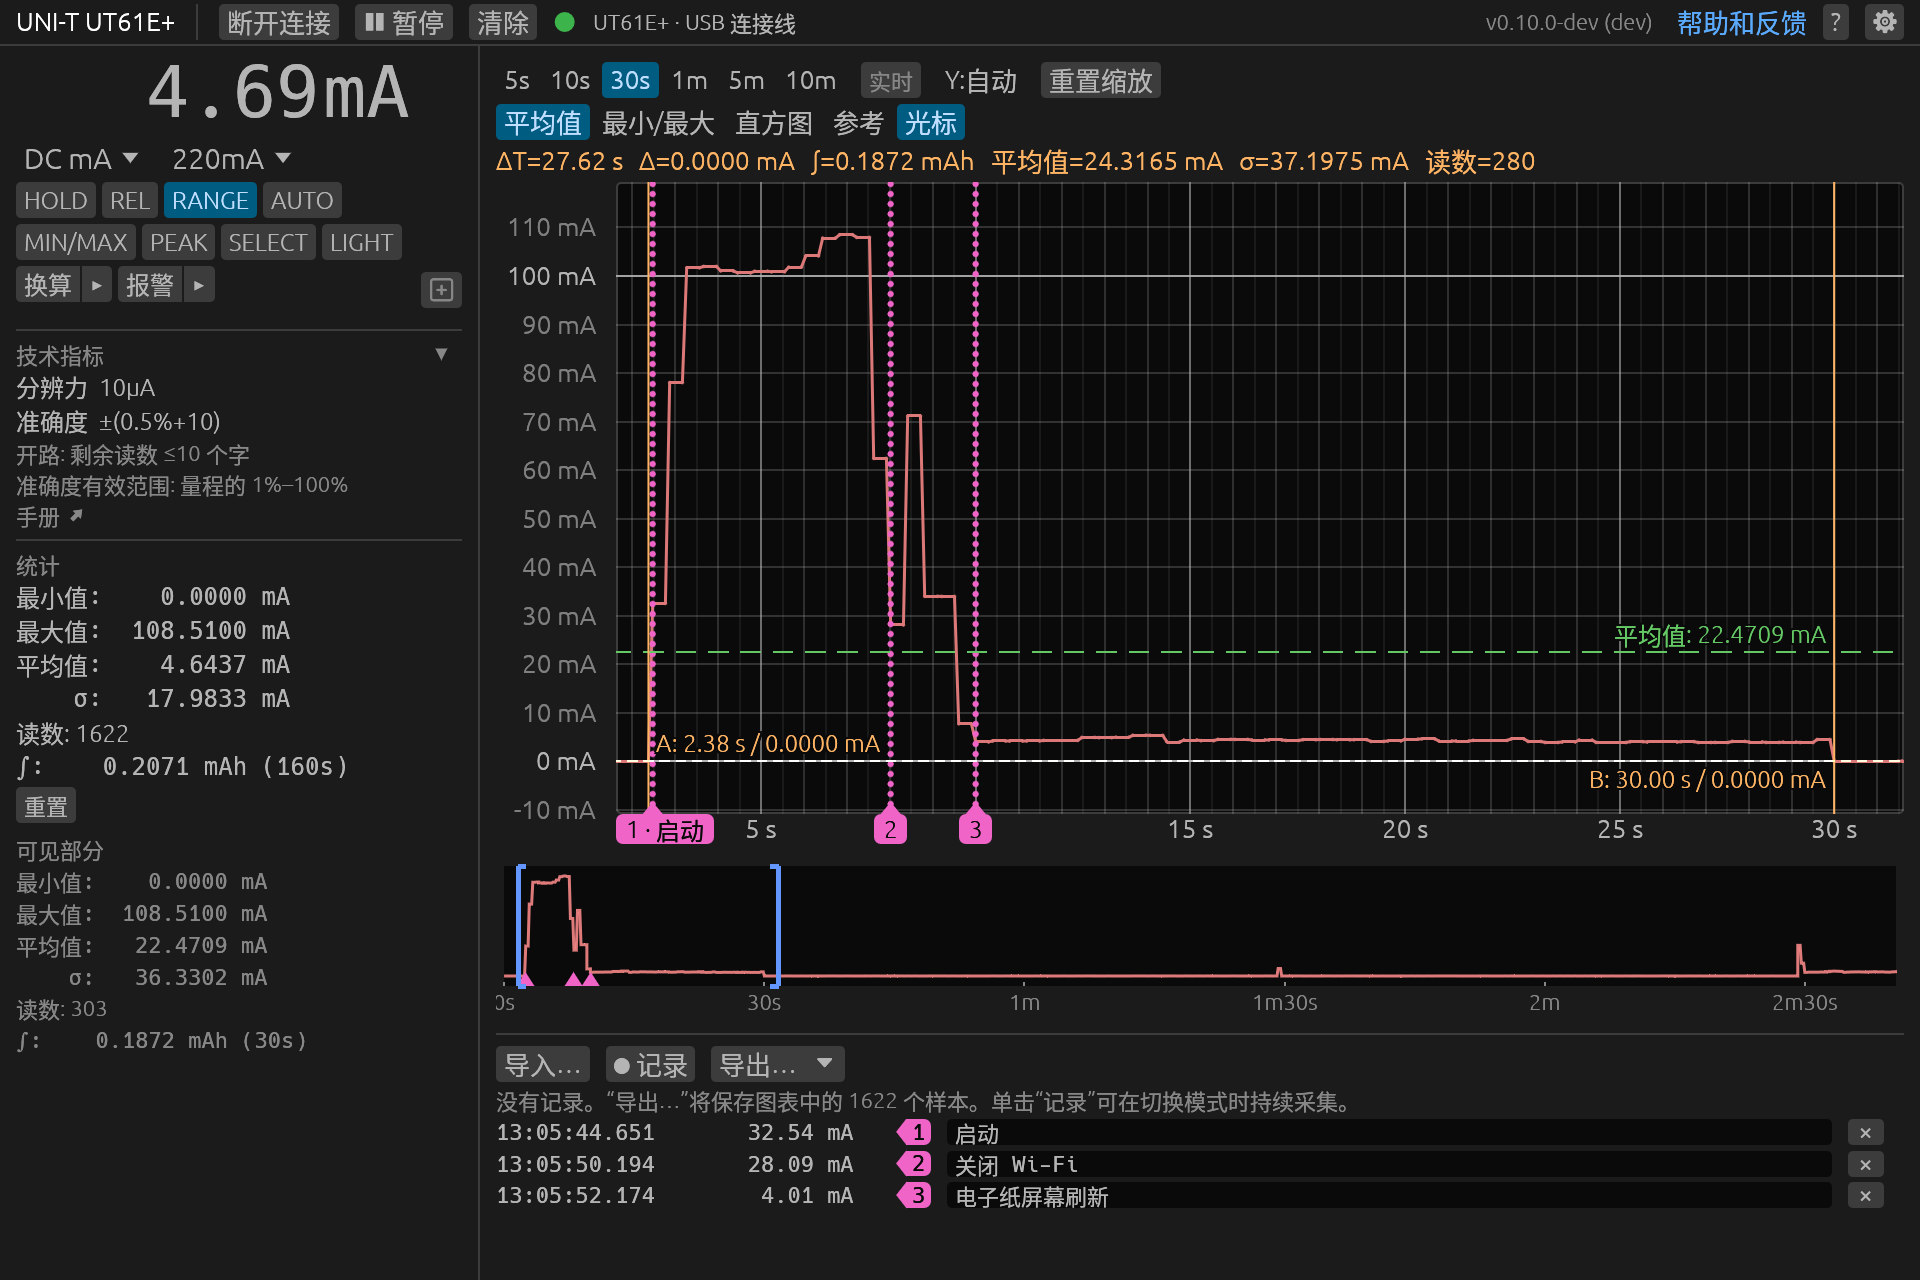
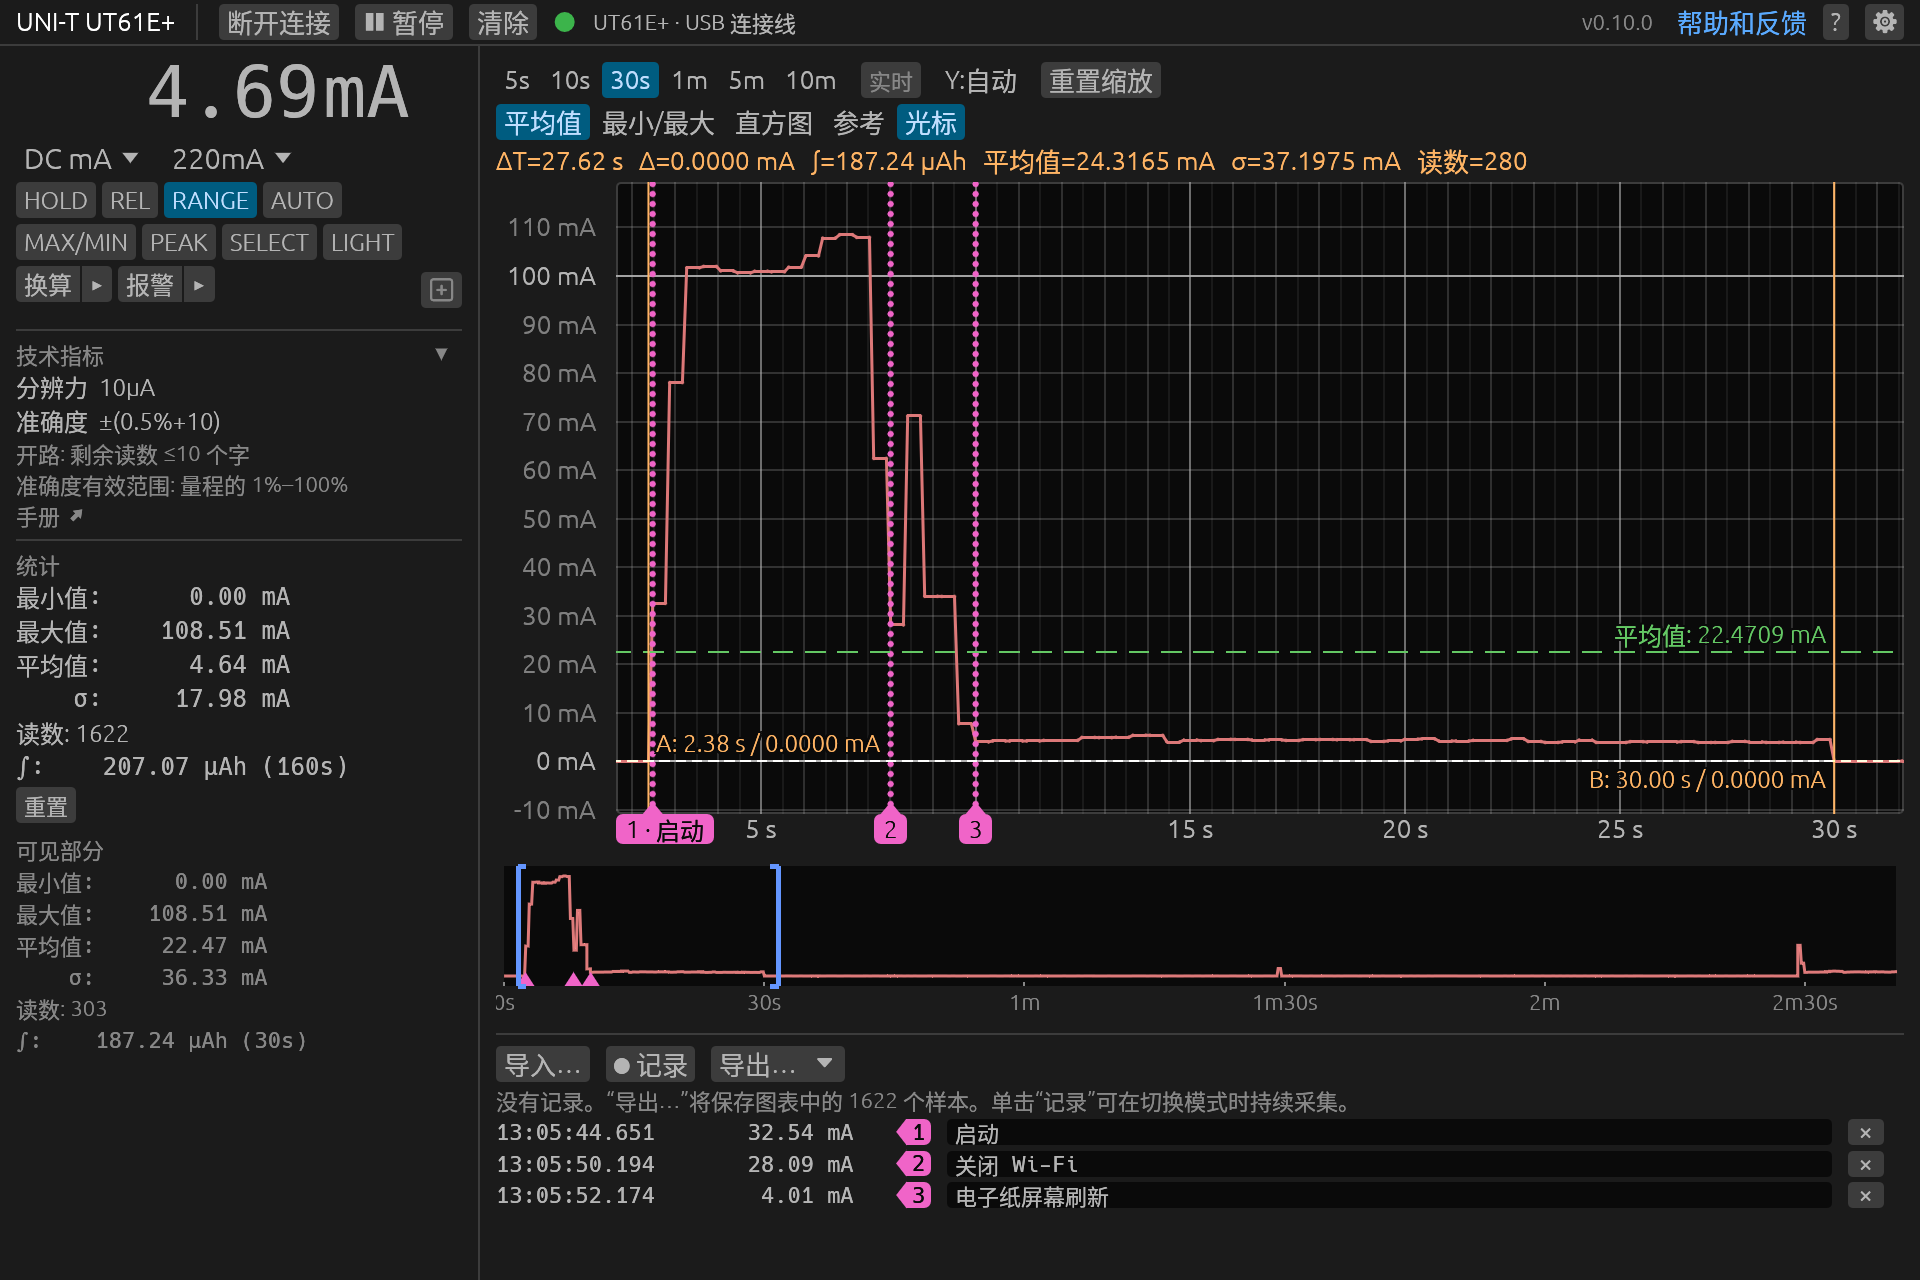
Release v0.10.0

diff --git a/CHANGELOG.md b/CHANGELOG.md
@@ -1,6 +1,8 @@
 # Changelog
 
-## Unreleased
+## v0.10.0 — Translations
+
+dmm-gui and dmm-cli come in Brazilian Portuguese, French, Japanese, Simplified Chinese and Spanish. The OWON CMS061, sold as the UNI-T UT217A, is verified, and the Brymen BM827s and BM525s are partly verified. More meters get remote buttons. Fixes make connections sturdier and reach every supported meter family.
 
 ### Devices
 
@@ -11,8 +13,8 @@
 ### GUI
 
 - **Brazilian Portuguese, French, Japanese, Simplified Chinese and Spanish translations available** — pick one in Settings, **Language**, or let it follow the system's language; Portuguese, Japanese, Chinese and Spanish are machine-translated until reviewed.
-- **Choose how often a screen reader announces the reading** — every 5s by default, or only while the reading has focus.
 - **More remote buttons on Voltcraft, OWON, UT217, UT61+, UT161 and UT181A meters** — such as RANGE and AUTO on the VC-880, VC650BT and VC-890, Hz/% on the UT61+ and UT161, and Inrush on the UT217.
+- **Choose how often a screen reader announces the reading** — every 5s by default, or only while the reading has focus.
 - **The UT171 gets remote buttons and function and range dropdowns** — HOLD, REL, RANGE, AUTO, MAX/MIN, PEAK, Hz/% and STORE.
 - **The graph, statistics and integral carry on when the meter auto-ranges** — they restarted at each decade step; figures keep the meter's ranges, as 31.300 MΩ beside 0.04 Ω.
 - **Pan the graph with a two-finger sideways swipe on a touchpad** — over the plot or the minimap.
@@ -100,6 +102,8 @@
 - **dmm-gui opens a file whose saved view lies far past its readings** — importing or replaying it crashed.
 - **dmm-gui refuses a theme file with unreadable top-bar text, and says why** — its Theme chips in Settings were unreadable.
 - **Control characters in a replay file or capture report print as text** — in errors and `triage` output, where they could rewrite the screen or clipboard.
+
+**Full Changelog**: https://github.com/antoinecellerier/dmm-tools/compare/v0.9.0...v0.10.0
 
 ## v0.9.0 — Graph Analysis and Alarms
 
